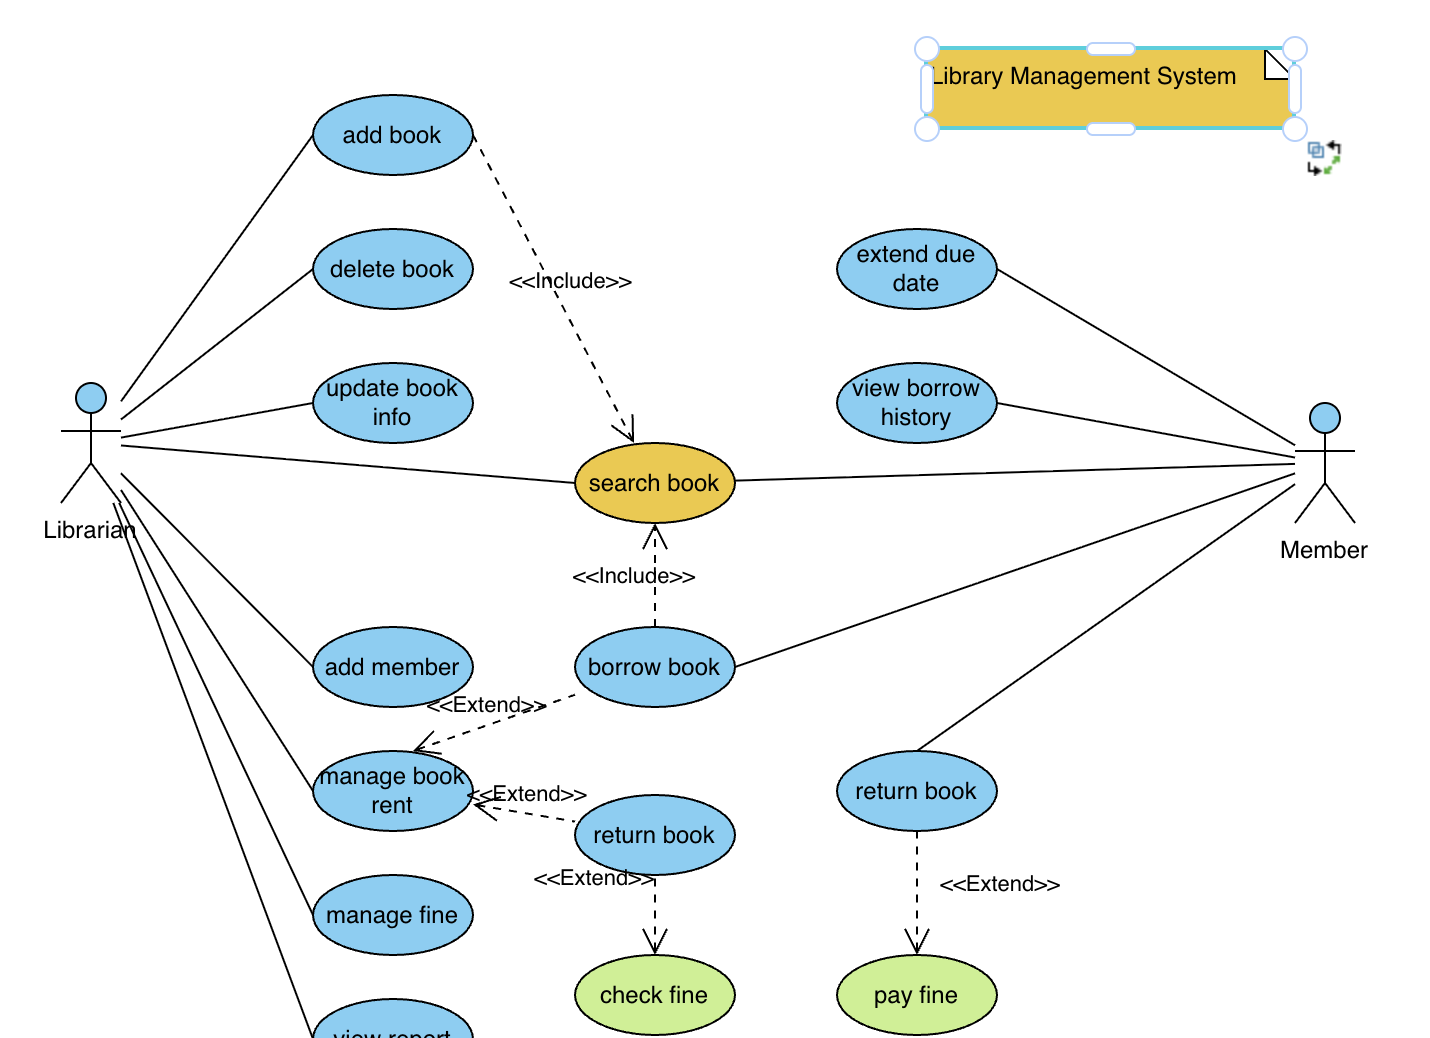
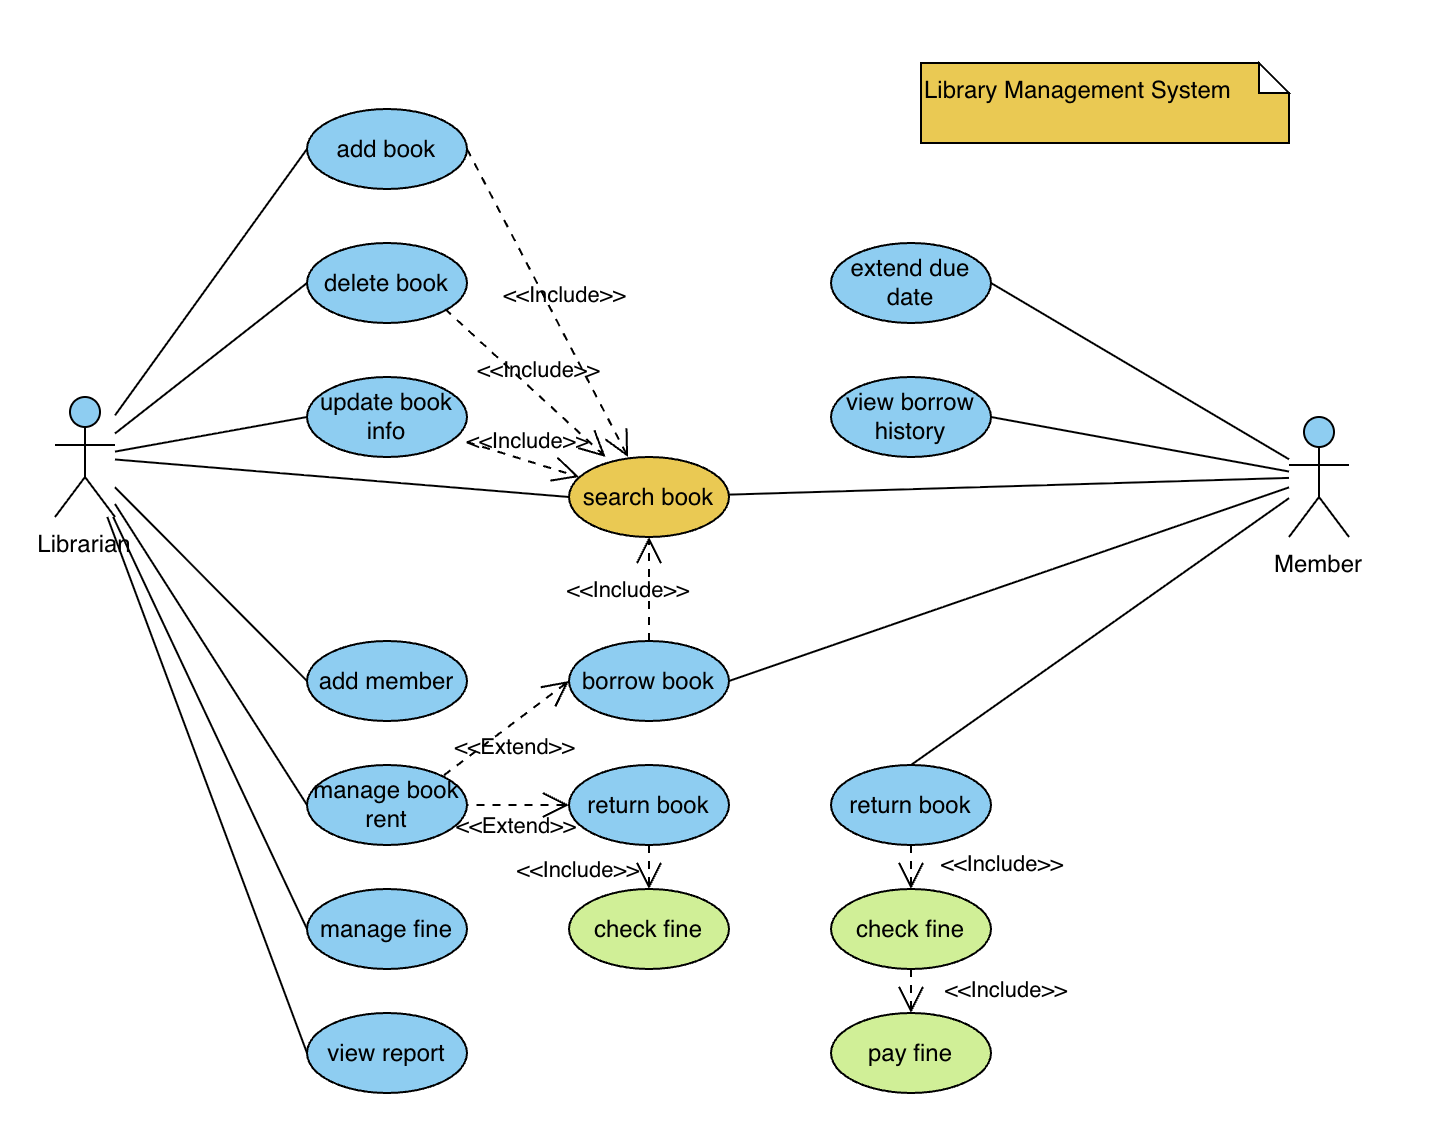
W5A3 Error Fix
The original case diagram screenshot was incomplete. Replaced it with the complete version

diff --git a/Week5/act3 UML_diagram_design/Library_Management_System.md b/Week5/act3 UML_diagram_design/Library_Management_System.md
@@ -40,7 +40,7 @@ The system helps **librarians** and **members** by automating manual tasks, keep
 
 ![Use Case Diagram](Case_Diagram.png)
 
-### 👤 Actors
+### Actors
 
 - **Librarian**
   - Can add/edit/delete books, add members, manage fines, and view reports.
